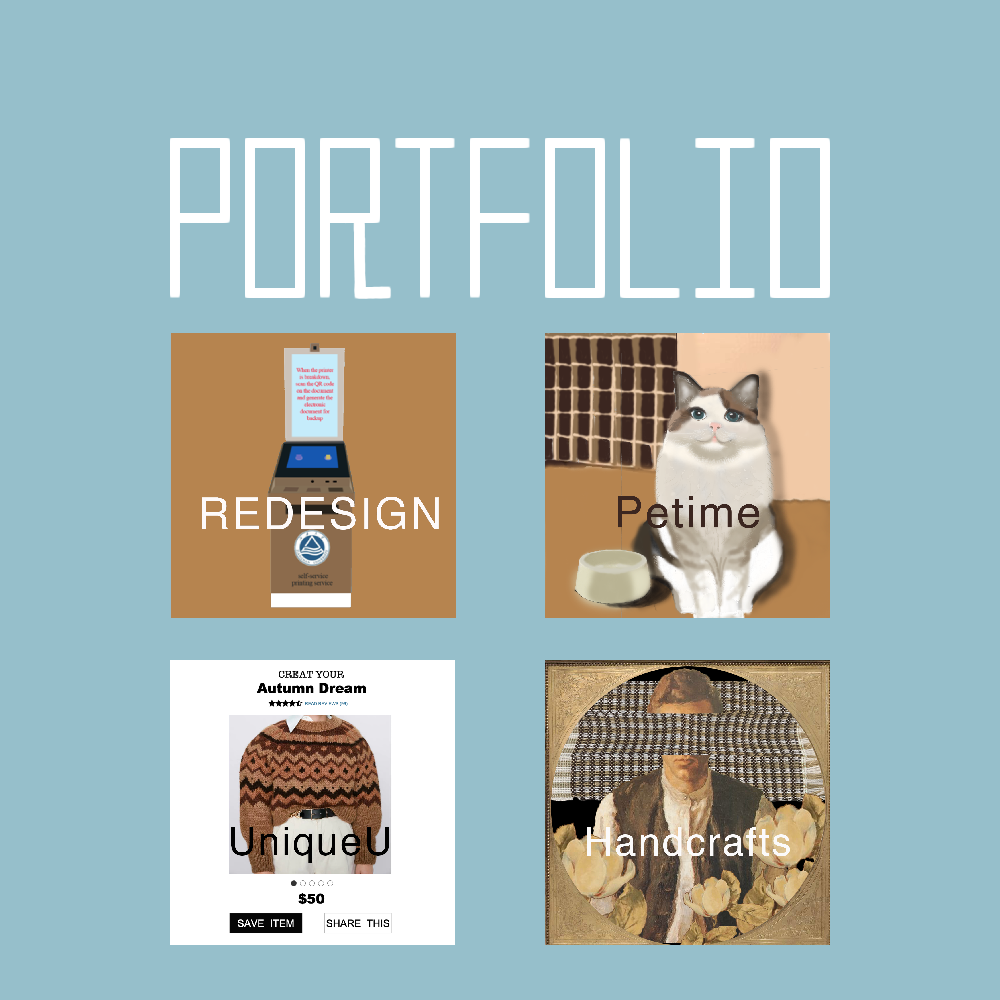
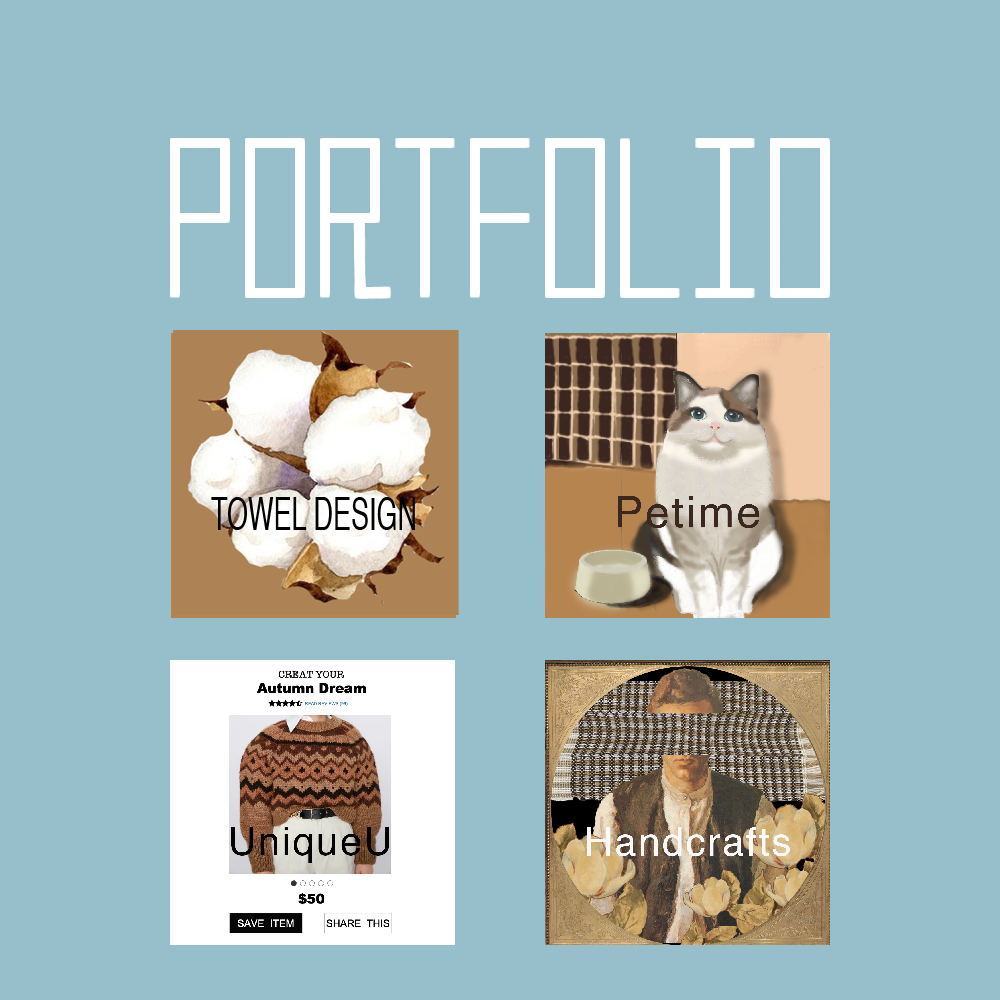
replace

Changed region(s): [[0.186, 0.31, 0.465, 0.62], [0.434, 0.31, 0.465, 0.341]]

diff --git a/Project1g.html b/Project1g.html
@@ -41,7 +41,7 @@
             <a class="dropdown-item" href="index.html">Homepage</a>
             <a class="dropdown-item" href="work.html">General Mode</a>
             <a class="dropdown-item" href="Mario-style-page.html">Game Mode</a>
-            <a class="dropdown-item" href="Project1.html">Redesign of printers</a>
+            <a class="dropdown-item" href="Project1.html">Towel Design</a>
             <a class="dropdown-item" href="Project2.html">PETIME</a>
             <a class="dropdown-item" href="Project3.html">UniqueU</a>
             <div class="dropdown-divider"></div>
@@ -59,7 +59,7 @@
 
 
     <section>
-      <div class="jumbotron text-center mt-2" style=" background-image: url(./image/redesign/overall.png); background-size: cover">
+      <div class="jumbotron text-center mt-2" style=" background-image: url(./image/redesign/td11.png); background-size: cover">
         <div class="container" >
           <div class="row">
             <div class="col-12">
@@ -70,11 +70,9 @@
       </div>
     </section>
 
-    <p class="text-center"><img class="img-fluid" src="./image/redesign/login.png" alt="" width="100%"></p><br>
-    <p class="text-center"><img class="img-fluid" src="./image/redesign/login22.png" alt="" width="100%"></p><br>
-    <p class="text-center"><img class="img-fluid" src="./image/redesign/login222.png" alt="" width="100%"></p><br>
-    <p class="text-center"><img class="img-fluid" src="./image/redesign/login2222.png" alt="" width="100%"></p><br>
-
+    <p class="text-center"><img class="img-fluid" src="./image/redesign/td3.png" alt="" width="100%"></p><br>
+    <p class="text-center"><img class="img-fluid" src="./image/redesign/td2.png" alt="" width="100%"></p><br>
+  
 
     <hr>
     <div class="section">

diff --git a/Project1.html b/Project1.html
@@ -31,7 +31,7 @@
             <a class="dropdown-item" href="index.html">Homepage</a>
             <a class="dropdown-item" href="work.html">General Mode</a>
             <a class="dropdown-item" href="Mario-style-page.html">Game Mode</a>
-            <a class="dropdown-item" href="Project1.html">Redesign of printers</a>
+            <a class="dropdown-item" href="Project1.html">Towel Design</a>
             <a class="dropdown-item" href="Project2.html">PETIME</a>
             <a class="dropdown-item" href="Project3.html">UniqueU</a>
             <div class="dropdown-divider"></div>
@@ -44,7 +44,7 @@
 
 
     <section>
-      <div class="jumbotron text-center mt-2" style=" background-image: url(./image/redesign/overall.png); background-size: cover">
+      <div class="jumbotron text-center mt-2" style=" background-image: url(./image/redesign/td11.png); background-size: cover">
         <div class="container" >
           <div class="row">
             <div class="col-12">
@@ -55,10 +55,9 @@
       </div>
     </section>
 
-    <p class="text-center"><img class="img-fluid" src="./image/redesign/login.png" alt="" width="100%"></p><br>
-    <p class="text-center"><img class="img-fluid" src="./image/redesign/login22.png" alt="" width="100%"></p><br>
-    <p class="text-center"><img class="img-fluid" src="./image/redesign/login222.png" alt="" width="100%"></p><br>
-    <p class="text-center"><img class="img-fluid" src="./image/redesign/login2222.png" alt="" width="100%"></p><br>
+    <p class="text-center"><img class="img-fluid" src="./image/redesign/td3.png" alt="" width="100%"></p><br>
+    <p class="text-center"><img class="img-fluid" src="./image/redesign/td2.png" alt="" width="100%"></p><br>
+   
 
 
     <hr>

diff --git a/index.html b/index.html
@@ -42,7 +42,7 @@
                     Dropdown
                 </a>
                 <div class="dropdown-menu" aria-labelledby="navbarDropdown">
-                    <a class="dropdown-item" href="Project1.html">Redesign of printers</a>
+                    <a class="dropdown-item" href="Project1.html">Towel Design</a>
                     <a class="dropdown-item" href="Project2.html">PETIME</a>
                     <a class="dropdown-item" href="Project3.html">UniqueU</a>
                     <div class="dropdown-divider"></div>
@@ -88,7 +88,7 @@
                 <a href="work.html">
                 <img class="img-fluid" src="./image/General.png" alt="">
                 <h4>GENERAL MODE</h4></a>
-                <h6>There are one redesign interface of printer and two app designs and some of my handmade works. </h6>
+                <h6>There are one durable towel design for star hotel and two app designs and some of my handmade works. </h6>
 
             </div>
             <div class="col-md-6 col-12 text-center mt-md-0 mt-2">

diff --git a/photo gallery.html b/photo gallery.html
@@ -29,7 +29,7 @@
                     <a class="dropdown-item" href="index.html">Homepage</a>
                     <a class="dropdown-item" href="work.html">General Mode</a>
                     <a class="dropdown-item" href="Mario-style-page.html">Game Mode</a>
-                    <a class="dropdown-item" href="Project1.html">Redesign of printers</a>
+                    <a class="dropdown-item" href="Project1.html">Towel Design</a>
                     <a class="dropdown-item" href="Project2.html">PETIME</a>
                     <a class="dropdown-item" href="Project3.html">UniqueU</a>
                     <div class="dropdown-divider"></div>

diff --git a/photo galleryg.html b/photo galleryg.html
@@ -28,7 +28,7 @@
                     <a class="dropdown-item" href="index.html">Homepage</a>
                     <a class="dropdown-item" href="work.html">General Mode</a>
                     <a class="dropdown-item" href="Mario-style-page.html">Game Mode</a>
-                    <a class="dropdown-item" href="Project1.html">Redesign of printers</a>
+                    <a class="dropdown-item" href="Project1.html">Towel Design</a>
                     <a class="dropdown-item" href="Project2.html">PETIME</a>
                     <a class="dropdown-item" href="Project3.html">UniqueU</a>
                     <div class="dropdown-divider"></div>

diff --git a/Project2.html b/Project2.html
@@ -32,7 +32,7 @@
             <a class="dropdown-item" href="index.html">Homepage</a>
             <a class="dropdown-item" href="work.html">General Mode</a>
             <a class="dropdown-item" href="Mario-style-page.html">Game Mode</a>
-            <a class="dropdown-item" href="Project1.html">Redesign of printers</a>
+            <a class="dropdown-item" href="Project1.html">Towel Design</a>
             <a class="dropdown-item" href="Project2.html">PETIME</a>
             <a class="dropdown-item" href="Project3.html">UniqueU</a>
             <div class="dropdown-divider"></div>

diff --git a/Project2g.html b/Project2g.html
@@ -41,7 +41,7 @@
             <a class="dropdown-item" href="index.html">Homepage</a>
             <a class="dropdown-item" href="work.html">General Mode</a>
             <a class="dropdown-item" href="Mario-style-page.html">Game Mode</a>
-            <a class="dropdown-item" href="Project1.html">Redesign of printers</a>
+            <a class="dropdown-item" href="Project1.html">Towel Design</a>
             <a class="dropdown-item" href="Project2.html">PETIME</a>
             <a class="dropdown-item" href="Project3.html">UniqueU</a>
             <div class="dropdown-divider"></div>

diff --git a/Project3.html b/Project3.html
@@ -31,7 +31,7 @@
             <a class="dropdown-item" href="index.html">Homepage</a>
             <a class="dropdown-item" href="work.html">General Mode</a>
             <a class="dropdown-item" href="Mario-style-page.html">Game Mode</a>
-            <a class="dropdown-item" href="Project1.html">Redesign of printers</a>
+            <a class="dropdown-item" href="Project1.html">Towel Design</a>
             <a class="dropdown-item" href="Project2.html">PETIME</a>
             <a class="dropdown-item" href="Project3.html">UniqueU</a>
             <div class="dropdown-divider"></div>

diff --git a/Project3g.html b/Project3g.html
@@ -40,7 +40,7 @@
             <a class="dropdown-item" href="index.html">Homepage</a>
             <a class="dropdown-item" href="work.html">General Mode</a>
             <a class="dropdown-item" href="Mario-style-page.html">Game Mode</a>
-            <a class="dropdown-item" href="Project1.html">Redesign of printers</a>
+            <a class="dropdown-item" href="Project1.html">Towel Design</a>
             <a class="dropdown-item" href="Project2.html">PETIME</a>
             <a class="dropdown-item" href="Project3.html">UniqueU</a>
             <div class="dropdown-divider"></div>
